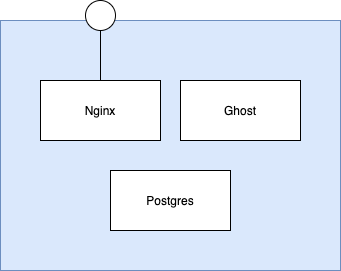
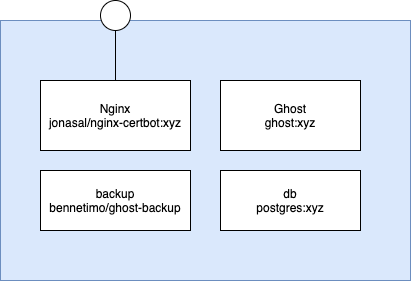
Migrated to ghost version 4.21.0

diff --git a/readme.md b/readme.md
@@ -208,13 +208,16 @@ docker exec -it ghost-backup restore -i
 
 Things on my to do list:
 
-- Migrate grtnr.de to the new setup
 - Organize a proper location for backing up to. Dropbox would be a candidate...
+- Get rid of _Subscribe_ button on the top right corner / on the sandwich menu.
+- Add Google tracking to understand visitors
 - Add a discourse to the setup so we have comments like [here](https://ghost.org/integrations/discourse/)
 - Add [mail2ghost2mail](https://github.com/tillg/mail2ghost2mail) so posts can be created by emails and emails can be sent when posts are published.
 
 ### DONE 
 
+* 2021-11-03: Migrated to ghost V 4.21.0, since a vulnerability of the old version was published. And of course I testede the migration on my test-site first 
+* 2021-10: Migrated the main blog to the new setup: https://grtnr.de 
 * 2021-09: I added a backup, I deployed on AWS.
 * 2021-08-16: Switched to environment based variable settings
 * 2021-08-13: Make the setup use HTTPS, thus dealing with the certificates. Go thru startup logs and review all security warnings.
